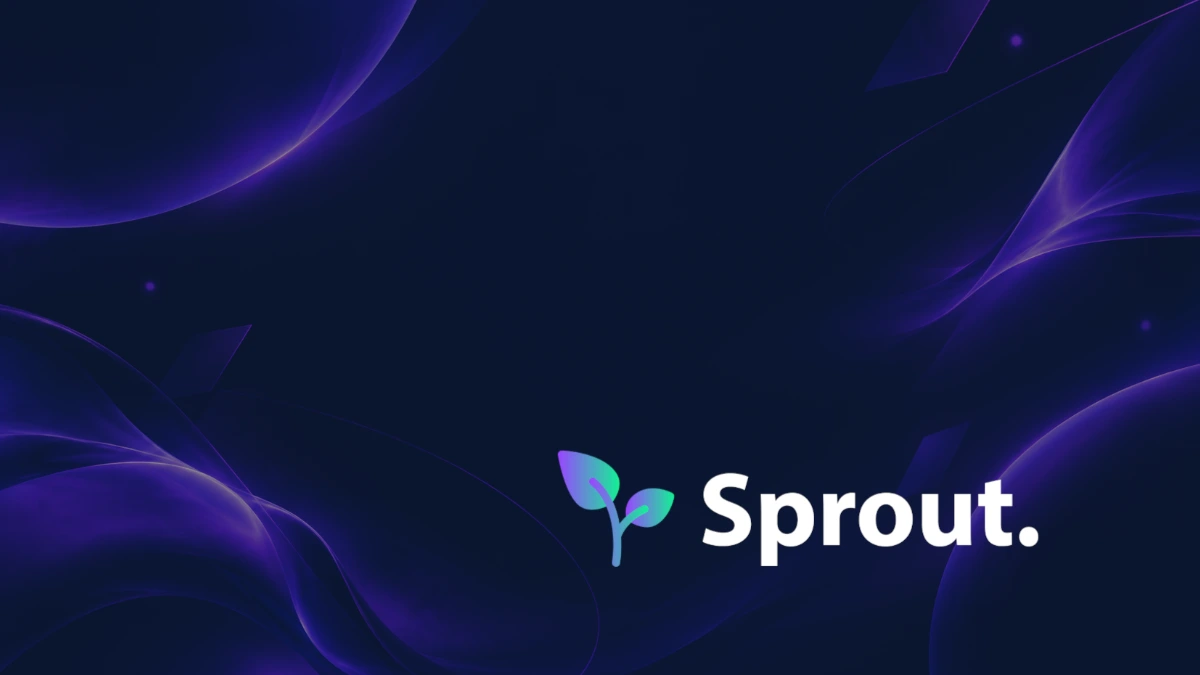
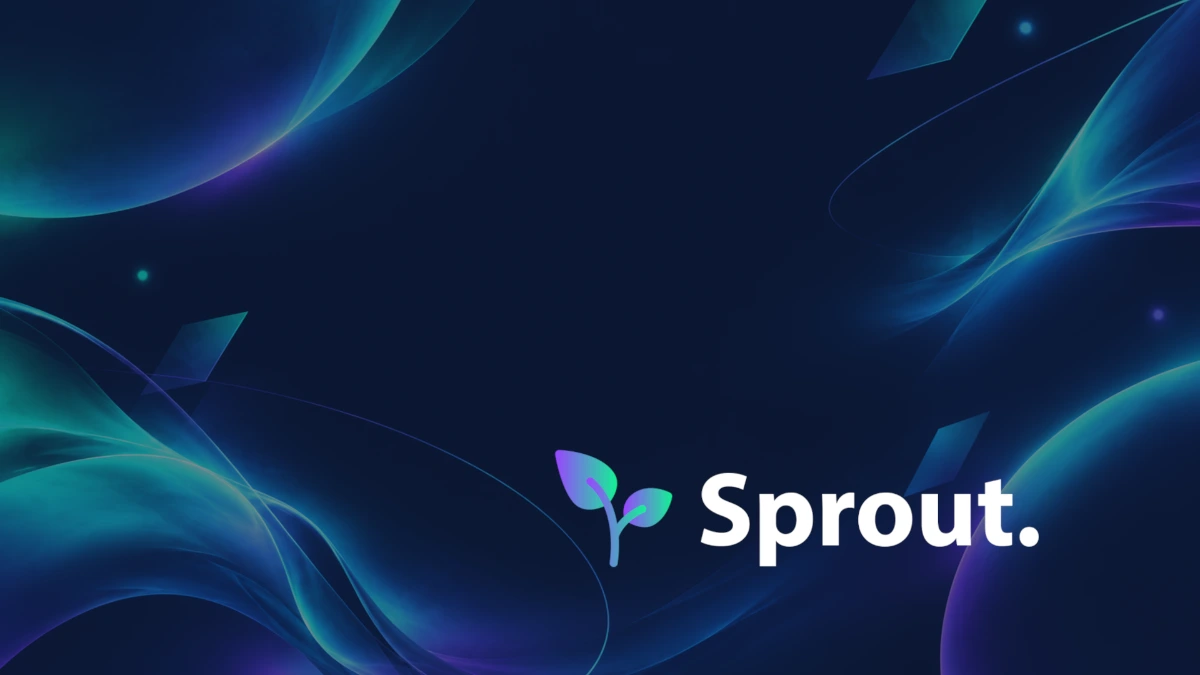
Update DEX configuration and branding

diff --git a/public/config.js b/public/config.js
@@ -36,7 +36,7 @@ window.__RUNTIME_CONFIG__ = {
   "VITE_SEO_KEYWORDS": "solana dex, solana perps, leverage trading, perpetual swaps, phantom wallet, crypto derivatives, solana trading, trade solana perps, perp dex",
   "VITE_AVAILABLE_LANGUAGES": "en",
   "VITE_USE_CUSTOM_PNL_POSTERS": "true",
-  "VITE_CUSTOM_PNL_POSTER_COUNT": "7",
+  "VITE_CUSTOM_PNL_POSTER_COUNT": "4",
   "VITE_TRADING_VIEW_COLOR_CONFIG": "{\"chartBG\":\"#0d1423\",\"upColor\":\"#2DD4A7\",\"downColor\":\"#FF647D\",\"pnlUpColor\":\"#2DD4A7\",\"pnlDownColor\":\"#FF647D\",\"pnlZeroColor\":\"#5B6B85\",\"textColor\":\"#D8E2F0\",\"qtyTextColor\":\"#AFC0D8\",\"volumeUpColor\":\"#09654F\",\"volumeDownColor\":\"#6A2B3B\",\"closeIconColor\":\"rgba(216, 226, 240, 0.8)\"}",
   "VITE_ORDERLY_THEME_CONFIG": "[{\"id\":\"00000000-0000-4000-8000-000000000001\",\"displayName\":\"Default\",\"mode\":\"dark\"},{\"id\":\"0b1d9e64-0f30-405c-96b1-debfa85aee00\",\"displayName\":\"Main Theme\",\"mode\":\"dark\",\"cssVars\":{\"--oui-rounded\":\"4px\",\"--oui-color-fill\":\"24 39 62\",\"--oui-color-line\":\"255 255 255\",\"--oui-color-link\":\"102 255 189\",\"--oui-rounded-lg\":\"8px\",\"--oui-rounded-md\":\"6px\",\"--oui-rounded-sm\":\"2px\",\"--oui-rounded-xl\":\"12px\",\"--oui-spacing-lg\":\"30rem\",\"--oui-spacing-md\":\"26.25rem\",\"--oui-spacing-sm\":\"22.5rem\",\"--oui-spacing-xl\":\"33.75rem\",\"--oui-spacing-xs\":\"20rem\",\"--oui-font-family\":\"'Manrope', sans-serif\",\"--oui-rounded-2xl\":\"16px\",\"--oui-color-base-1\":\"83 106 145\",\"--oui-color-base-2\":\"70 91 125\",\"--oui-color-base-3\":\"56 75 105\",\"--oui-color-base-4\":\"46 64 92\",\"--oui-color-base-5\":\"41 76 127\",\"--oui-color-base-6\":\"28 43 68\",\"--oui-color-base-7\":\"17 25 42\",\"--oui-color-base-8\":\"13 20 35\",\"--oui-color-base-9\":\"9 15 27\",\"--oui-color-danger\":\"255 100 125\",\"--oui-rounded-full\":\"9999px\",\"--oui-color-base-10\":\"5 10 20\",\"--oui-color-primary\":\"20 241 149\",\"--oui-color-success\":\"45 212 167\",\"--oui-color-warning\":\"246 184 75\",\"--oui-color-tertiary\":\"218 218 218\",\"--oui-color-secondary\":\"255 255 255\",\"--oui-color-link-light\":\"185 205 255\",\"--oui-color-quaternary\":\"218 218 218\",\"--oui-color-base-static\":\"255 255 255\",\"--oui-color-fill-active\":\"32 54 85\",\"--oui-color-danger-light\":\"255 145 160\",\"--oui-color-trading-loss\":\"255 100 125\",\"--oui-gradient-brand-end\":\"0 255 145\",\"--oui-color-danger-darken\":\"218 64 90\",\"--oui-color-primary-light\":\"139 169 255\",\"--oui-color-success-light\":\"99 239 191\",\"--oui-color-warning-light\":\"255 214 128\",\"--oui-gradient-danger-end\":\"255 100 125\",\"--oui-color-primary-darken\":\"31 209 132\",\"--oui-color-success-darken\":\"21 145 105\",\"--oui-color-trading-profit\":\"45 212 167\",\"--oui-color-warning-darken\":\"205 130 20\",\"--oui-gradient-brand-angle\":\"17.44deg\",\"--oui-gradient-brand-start\":\"52 220 254\",\"--oui-gradient-neutral-end\":\"15 22 35\",\"--oui-gradient-primary-end\":\"24 40 195\",\"--oui-gradient-success-end\":\"45 212 167\",\"--oui-gradient-warning-end\":\"246 184 75\",\"--oui-color-base-foreground\":\"255 255 255\",\"--oui-color-danger-contrast\":\"255 255 255\",\"--oui-gradient-danger-start\":\"150 32 58\",\"--oui-color-primary-contrast\":\"255 255 255\",\"--oui-color-success-contrast\":\"255 255 255\",\"--oui-color-warning-contrast\":\"255 255 255\",\"--oui-gradient-neutral-start\":\"26 35 48\",\"--oui-gradient-primary-start\":\"85 124 255\",\"--oui-gradient-secondary-end\":\"85 124 255\",\"--oui-gradient-success-start\":\"9 101 79\",\"--oui-gradient-warning-start\":\"130 75 0\",\"--oui-gradient-brand-stop-end\":\"86.5%\",\"--oui-gradient-secondary-start\":\"61 92 190\",\"--oui-gradient-brand-stop-start\":\"6.62%\",\"--oui-color-base-static-contrast\":\"0 0 0\",\"--oui-color-trading-loss-contrast\":\"255 255 255\",\"--oui-color-trading-profit-contrast\":\"255 255 255\"},\"tradingViewColorConfig\":{\"chartBG\":\"#0d1423\",\"upColor\":\"#2DD4A7\",\"downColor\":\"#FF647D\",\"pnlUpColor\":\"#2DD4A7\",\"pnlDownColor\":\"#FF647D\",\"pnlZeroColor\":\"#5B6B85\",\"textColor\":\"#D8E2F0\",\"qtyTextColor\":\"#AFC0D8\",\"volumeUpColor\":\"#09654F\",\"volumeDownColor\":\"#6A2B3B\",\"closeIconColor\":\"rgba(216, 226, 240, 0.8)\"},\"isDefault\":true}]",
   "VITE_ANALYTICS_SCRIPT": "{}",
